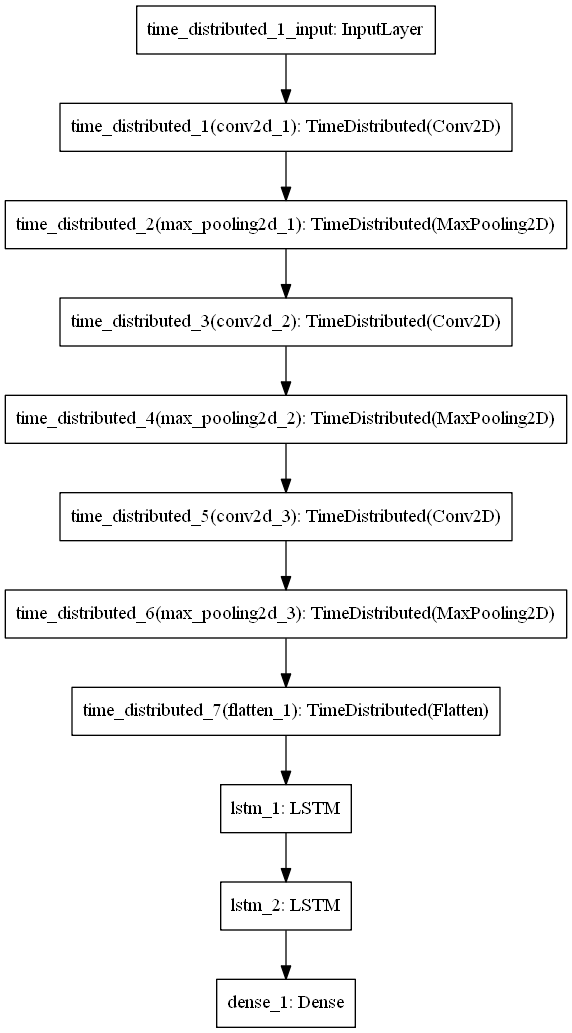
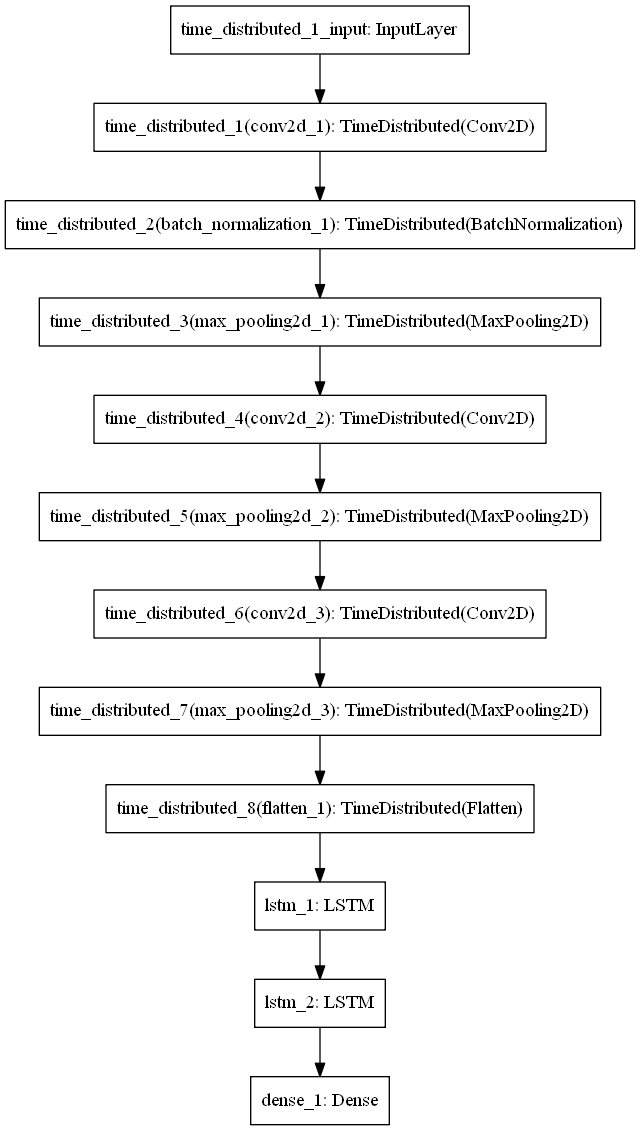
add

Changed region(s): [[0.0, 0.0, 1.0, 1.0]]

diff --git a/core/train.py b/core/train.py
@@ -11,11 +11,13 @@ from keras.models import *
 from keras.utils import plot_model
 from keras import optimizers, callbacks, backend
 
-# set the seed to random fixly
+from core.DataGenerator import DataGenerator
+
+
 # SEED = 11
 # random.seed(a=SEED)
 
-batch_size = 1000
+batch_size = 128
 epochs = 5
 
 
@@ -27,6 +29,8 @@ def define_CNN_LSTM():
     model = Sequential()
     # Total params: 995,210
     model.add(TimeDistributed(Conv2D(32, (3, 3), padding='same', activation='relu'), input_shape=(None, 32, 24, 1)))
+    # BatchNormalization maybe doesn't work on small batch size
+    model.add(TimeDistributed(BatchNormalization()))
     model.add(TimeDistributed(MaxPooling2D((2, 2))))
     model.add(TimeDistributed(Conv2D(64, (3, 3), padding='same', activation='relu')))
     model.add(TimeDistributed(MaxPooling2D((2, 2))))
@@ -51,7 +55,7 @@ def define_CNN_LSTM():
     # pred = model.predict(xtest)
     # return pred
 
-def fit_model(model):
+def fit_model(model, xtest, ytest):
     history = model.fit_generator(
         xtrain,
         ytrain,
@@ -75,16 +79,21 @@ def show_acc_loss(history):
     plt.plot(epochs, val_acc, 'b', label='Validation acc')
     plt.title('Training and validation accuracy')
     plt.legend()
+
     plt.figure()
+
     plt.plot(epochs, loss, 'bo', label='Training loss')
     plt.plot(epochs, val_loss, 'b', label='Validation loss')
     plt.title('Training and validation loss')
     plt.legend()
+
     plt.show()
 
 
 if __name__ == "__main__":
-    (xtrain, ytrain), (xtest, ytest) = load_data()
-    model = define_CNN_LSTM(xtrain, ytrain)
-    history = fit_model(model)
-    show_acc_loss(history)
+    parser = argparse.ArgumentParser()
+
+    # (xtrain, ytrain), (xtest, ytest) = load_data()
+    model = define_CNN_LSTM()
+    # history = fit_model(model, xtrain, ytrain)
+    # show_acc_loss(history)

diff --git a/core/DataGenerator.py b/core/DataGenerator.py
@@ -1,0 +1,24 @@
+import os
+import random
+import numpy as np
+from pasta import augment
+
+
+class DataGenerator:
+    '''
+    FIR data generator
+    ------------------
+    [temperature, y] : list
+        temperature : numpy array, shape:(32, 24)
+        y : numpy array
+    '''
+    def __init__(self, data, batch_size:int, steps:int):
+        self.data = data
+        if (batch_size == -1):
+            self.batch_size = len(data)
+        else:
+            self.batch_size = batch_size
+
+    def __len__(self):
+        return int(np.floor(len(self.data) / self.batch_size))
+
